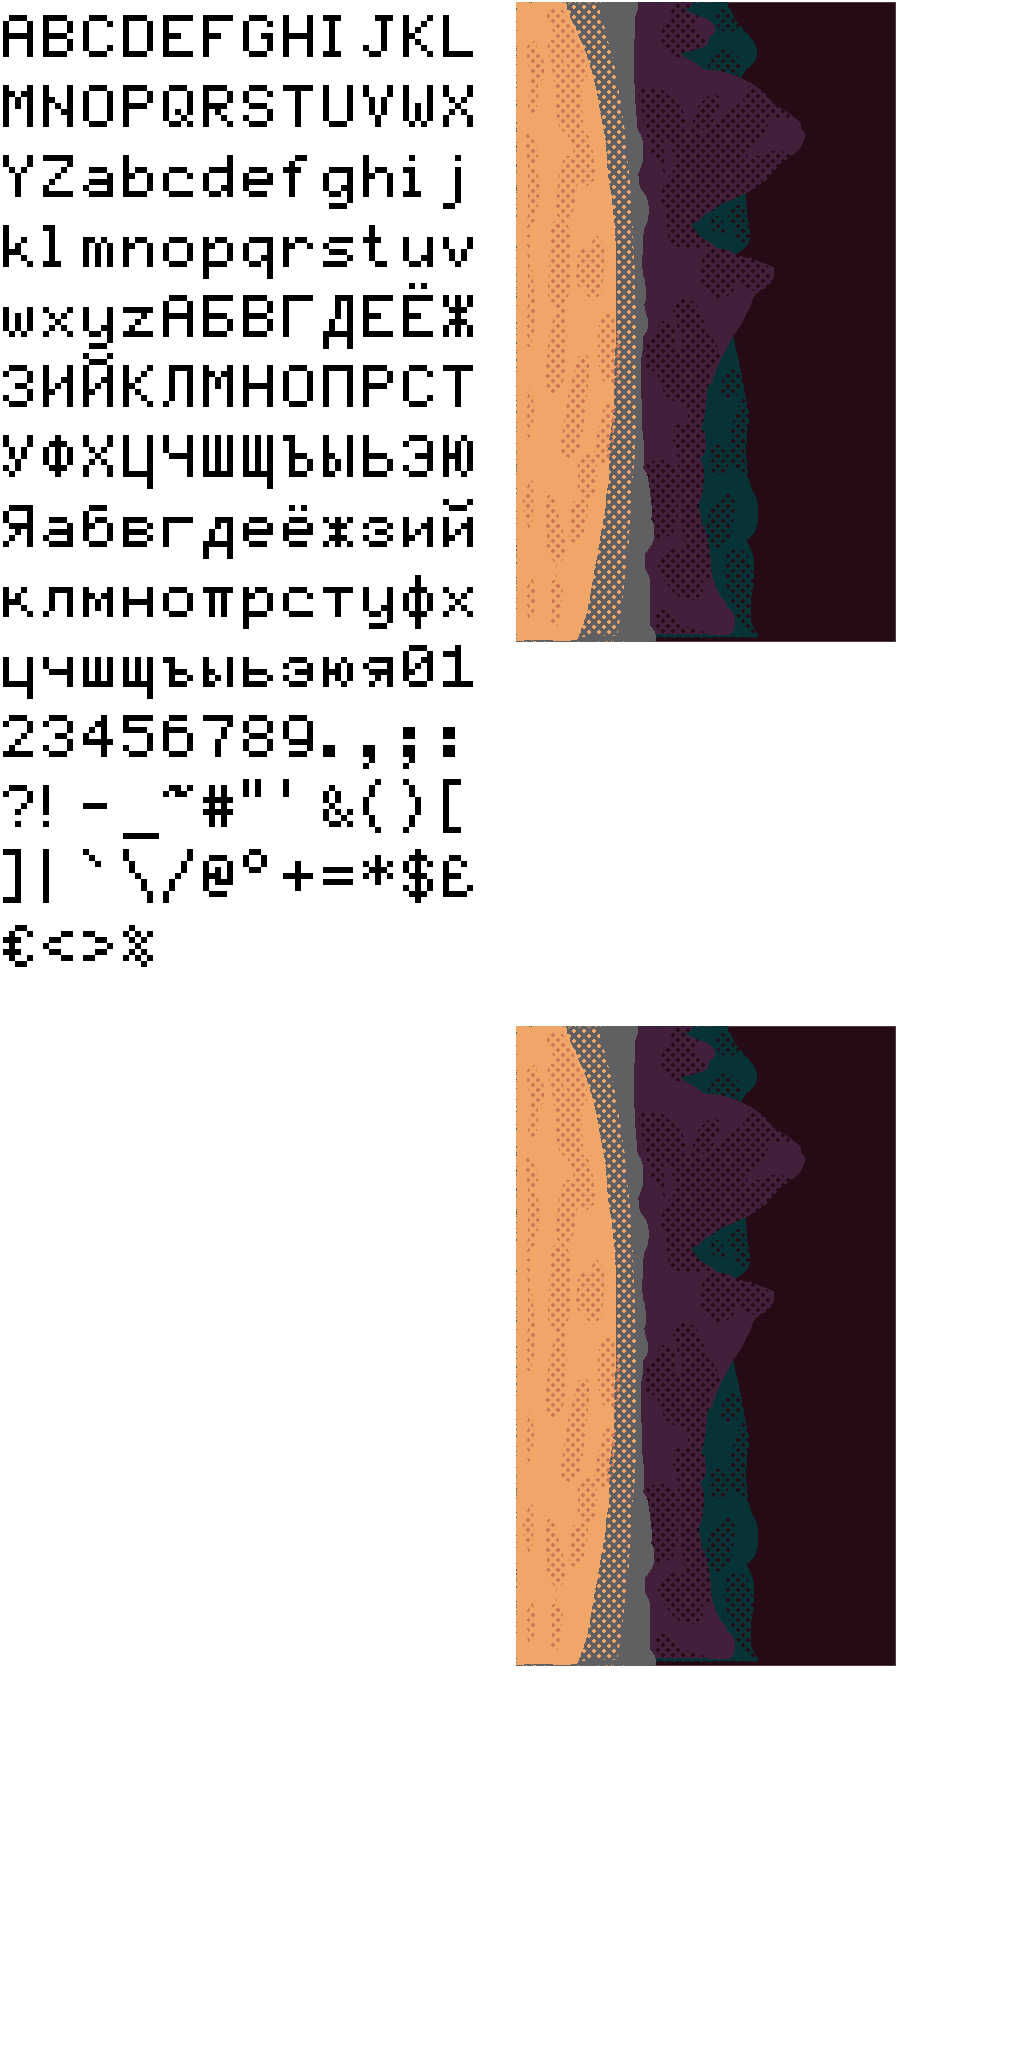
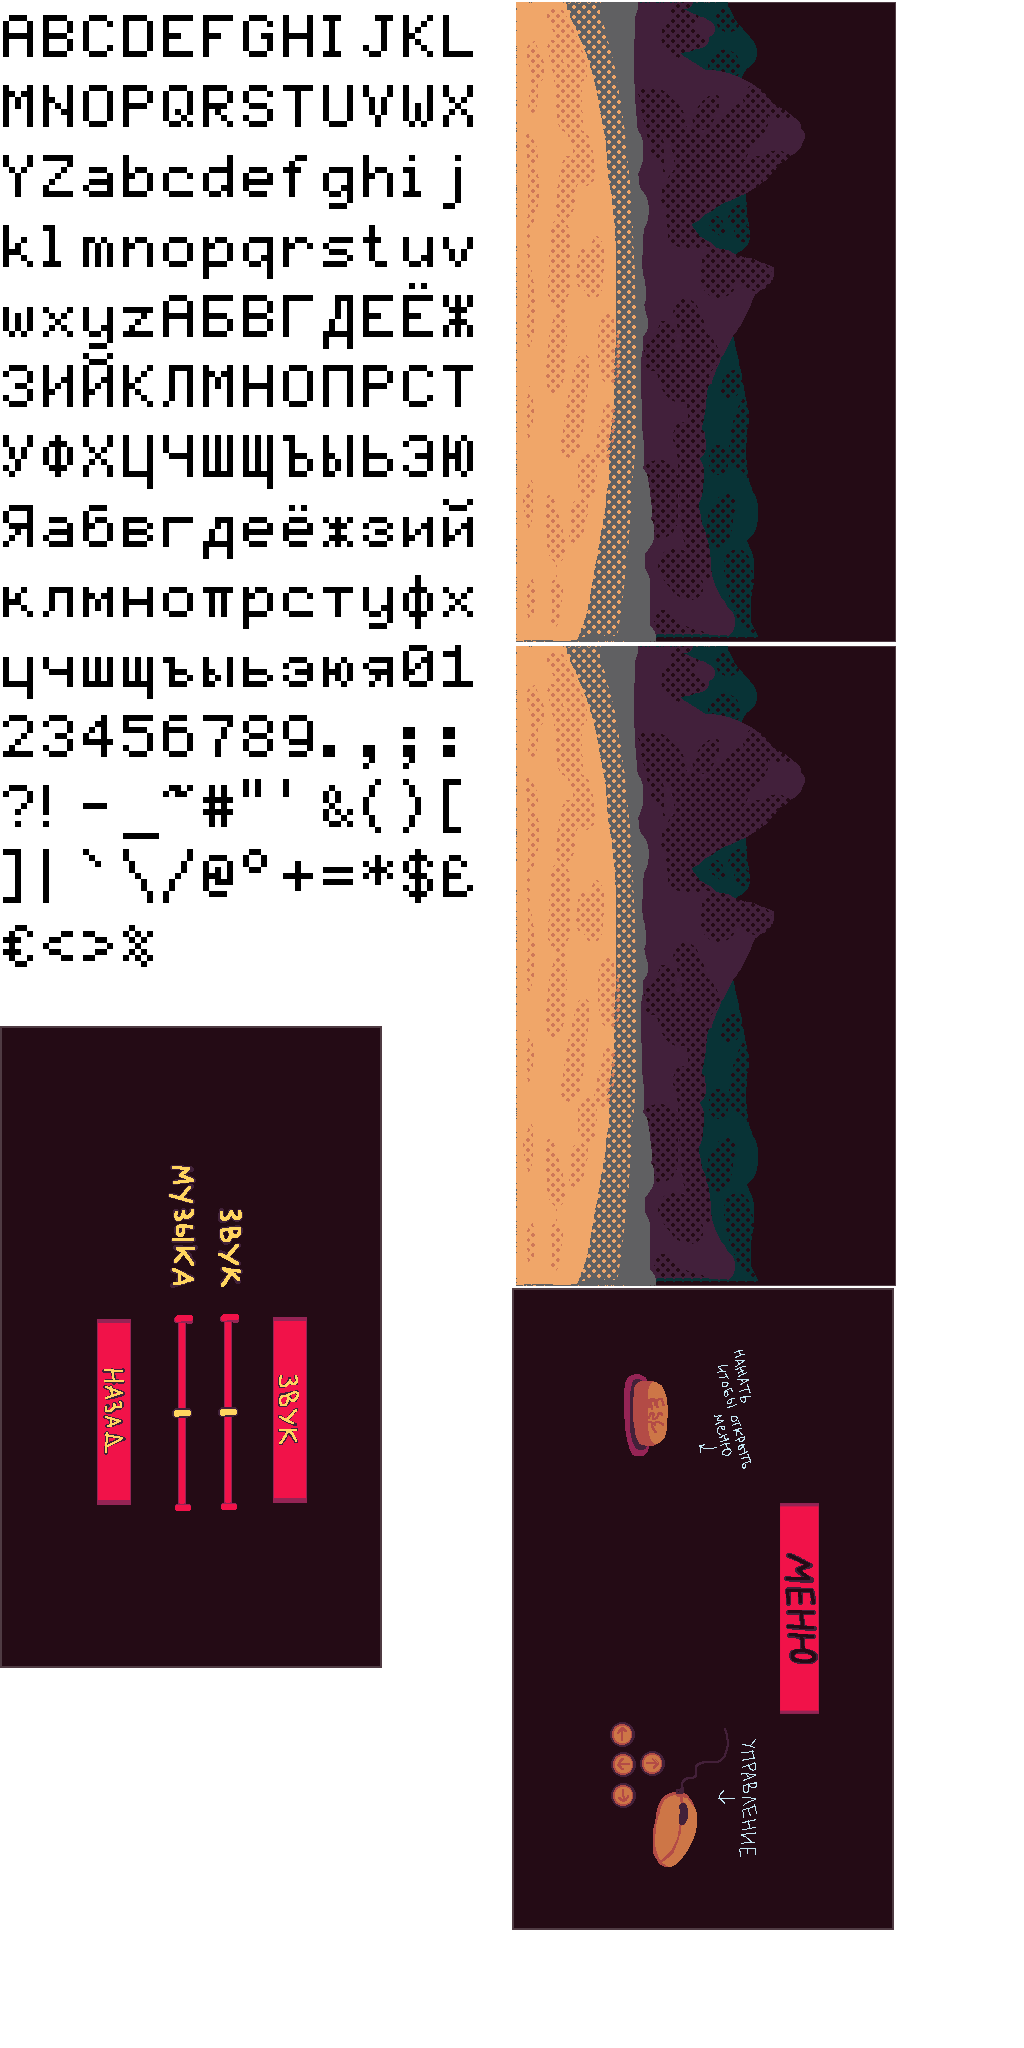
menu add

Changed region(s): [[0.5, 0.3125, 0.875, 0.9688], [0.0, 0.5, 0.375, 0.8125]]

diff --git a/KosmosFLY/scripts/c3runtime.js b/KosmosFLY/scripts/c3runtime.js
@@ -2964,8 +2964,8 @@ this._gpuTimeStartFrame;frameNumber<this._gpuTimeEndFrame;++frameNumber)this._we
 if(this._snapshotPromise)return this._snapshotPromise;this._snapshotPromise=new Promise(resolve=>{this._snapshotResolve=resolve});return this._snapshotPromise}_MaybeTakeSnapshot(){if(!this._snapshotFormat)return;let canvas=this._canvas;const snapArea=this._snapshotArea;const x=C3.clamp(Math.floor(snapArea.getLeft()),0,canvas.width);const y=C3.clamp(Math.floor(snapArea.getTop()),0,canvas.height);let w=snapArea.width();if(w===0)w=canvas.width-x;else w=C3.clamp(Math.floor(w),0,canvas.width-x);let h=
 snapArea.height();if(h===0)h=canvas.height-y;else h=C3.clamp(Math.floor(h),0,canvas.height-y);if((x!==0||y!==0||w!==canvas.width||h!==canvas.height)&&(w>0&&h>0)){canvas=C3.CreateCanvas(w,h);const ctx=canvas.getContext("2d");ctx.drawImage(this._canvas,x,y,w,h,0,0,w,h)}C3.CanvasToBlob(canvas,this._snapshotFormat,this._snapshotQuality).then(blob=>{this._snapshotUrl=URL.createObjectURL(blob);this._snapshotPromise=null;this._snapshotResolve(this._snapshotUrl)});this._snapshotFormat="";this._snapshotQuality=
 1}GetCanvasSnapshotUrl(){return this._snapshotUrl}SetIsPastingToDrawingCanvas(p){if(p)this._isPastingToDrawingCanvas++;else this._isPastingToDrawingCanvas--}IsPastingToDrawingCanvas(){return this._isPastingToDrawingCanvas>0}InitLoadingScreen(loaderStyle){if(!this._webglRenderer)return;if(loaderStyle===2){this._percentText=C3.New(C3.Gfx.RendererText,this.GetRenderer());this._percentText.SetIsAsync(false);this._percentText.SetFontName("Arial");this._percentText.SetFontSize(16);this._percentText.SetHorizontalAlignment("center");
[2 lines of base64/hex data omitted]
+this._percentText.SetVerticalAlignment("center");this._percentText.SetSize(PERCENTTEXT_WIDTH,PERCENTTEXT_HEIGHT)}else if(loaderStyle===0){const loadingLogoAsset=this._runtime.GetLoadingLogoAsset();if(loadingLogoAsset)loadingLogoAsset.LoadStaticTexture(this._webglRenderer).catch(err=>console.warn(`[C3 runtime] Failed to create texture for loading logo: `,err))}else if(loaderStyle===4){this._LoadSvgSplashImage("splash-images/splash-logo.svg").then(tex=>{if(this._splashState==="done")this._webglRenderer.DeleteTexture(tex);
+else this._splashTextures.logo=tex}).catch(err=>console.warn("Failed to load splash image: ",err));this._LoadBitmapSplashImage("splash-images/splash-poweredby-512.png").then(tex=>{if(this._splashState==="done")this._webglRenderer.DeleteTexture(tex);else this._splashTextures.powered=tex}).catch(err=>console.warn("Failed to load splash image: ",err));this._LoadBitmapSplashImage("splash-images/splash-website-512.png").then(tex=>{if(this._splashState==="done")this._webglRenderer.DeleteTexture(tex);else this._splashTextures.website=
 tex}).catch(err=>console.warn("Failed to load splash image: ",err))}}async _LoadSvgSplashImage(url){url=(new URL(url,this._runtime.GetBaseURL())).toString();const blob=await C3.FetchBlob(url);const drawable=await this._runtime.RasterSvgImage(blob,2048,2048);return await this._webglRenderer.CreateStaticTextureAsync(drawable,{mipMapQuality:"high"})}async _LoadBitmapSplashImage(url){url=(new URL(url,this._runtime.GetBaseURL())).toString();const blob=await C3.FetchBlob(url);return await this._webglRenderer.CreateStaticTextureAsync(blob,
 {mipMapQuality:"high"})}HideCordovaSplashScreen(){this._runtime.PostComponentMessageToDOM("runtime","hide-cordova-splash")}StartLoadingScreen(){this._loaderStartTime=Date.now();this._runtime.Dispatcher().addEventListener("loadingprogress",this._loadingprogress_handler);this._rafId=requestAnimationFrame(()=>this._DrawLoadingScreen());const loaderStyle=this._runtime.GetLoaderStyle();if(loaderStyle!==3)this.HideCordovaSplashScreen()}async EndLoadingScreen(){if(!this._webglRenderer)return;this._loadingProgress=
 1;const loaderStyle=this._runtime.GetLoaderStyle();if(loaderStyle===4)await this._splashDonePromise;this._splashDoneResolve=null;this._splashDonePromise=null;if(this._rafId!==-1){cancelAnimationFrame(this._rafId);this._rafId=-1}this._runtime.Dispatcher().removeEventListener("loadingprogress",this._loadingprogress_handler);this._loadingprogress_handler=null;if(this._percentText){this._percentText.Release();this._percentText=null}this._runtime.ReleaseLoadingLogoAsset();this._webglRenderer.Start();if(this._splashTextures.logo){this._webglRenderer.DeleteTexture(this._splashTextures.logo);
@@ -3145,6 +3145,19 @@ self["C3_Shaders"]["outline"] = {
 	preservesOpaqueness: true,
 	animated: false,
 	parameters: [["width",0,"float"],["cl",0,"color"],["diag",0,"float"]]
+};
+self["C3_Shaders"]["hsladjust"] = {
+	glsl: "varying mediump vec2 vTex;\nuniform lowp sampler2D samplerFront;\nprecision mediump float;\nuniform float huerotate;\nuniform float satadjust;\nuniform float lumadjust;\nvec3 rgb_to_hsl(vec3 color)\n{\nvec3 hsl = vec3(0.0, 0.0, 0.0);\nfloat fmin = min(min(color.r, color.g), color.b);\nfloat fmax = max(max(color.r, color.g), color.b);\nfloat delta = fmax - fmin;\nhsl.z = (fmax + fmin) / 2.0;\nif (delta == 0.0)\n{\nhsl.x = 0.0;\nhsl.y = 0.0;\n}\nelse\n{\nif (hsl.z < 0.5)\nhsl.y = delta / (fmax + fmin);\nelse\nhsl.y = delta / (2.0 - fmax - fmin);\nfloat dR = (((fmax - color.r) / 6.0) + (delta / 2.0)) / delta;\nfloat dG = (((fmax - color.g) / 6.0) + (delta / 2.0)) / delta;\nfloat dB = (((fmax - color.b) / 6.0) + (delta / 2.0)) / delta;\nif (color.r == fmax)\nhsl.x = dB - dG;\nelse if (color.g == fmax)\nhsl.x = (1.0 / 3.0) + dR - dB;\nelse if (color.b == fmax)\nhsl.x = (2.0 / 3.0) + dG - dR;\nif (hsl.x < 0.0)\nhsl.x += 1.0;\nelse if (hsl.x > 1.0)\nhsl.x -= 1.0;\n}\nreturn hsl;\n}\nfloat hue_to_rgb(float f1, float f2, float hue)\n{\nif (hue < 0.0)\nhue += 1.0;\nelse if (hue > 1.0)\nhue -= 1.0;\nfloat ret;\nif ((6.0 * hue) < 1.0)\nret = f1 + (f2 - f1) * 6.0 * hue;\nelse if ((2.0 * hue) < 1.0)\nret = f2;\nelse if ((3.0 * hue) < 2.0)\nret = f1 + (f2 - f1) * ((2.0 / 3.0) - hue) * 6.0;\nelse\nret = f1;\nreturn ret;\n}\nvec3 hsl_to_rgb(vec3 hsl)\n{\nvec3 rgb = vec3(hsl.z);\nif (hsl.y != 0.0)\n{\nfloat f2;\nif (hsl.z < 0.5)\nf2 = hsl.z * (1.0 + hsl.y);\nelse\nf2 = (hsl.z + hsl.y) - (hsl.y * hsl.z);\nfloat f1 = 2.0 * hsl.z - f2;\nrgb.r = hue_to_rgb(f1, f2, hsl.x + (1.0 / 3.0));\nrgb.g = hue_to_rgb(f1, f2, hsl.x);\nrgb.b = hue_to_rgb(f1, f2, hsl.x - (1.0 / 3.0));\n}\nreturn rgb;\n}\nvoid main(void)\n{\nvec4 front = texture2D(samplerFront, vTex);\nvec3 rgb = rgb_to_hsl(front.rgb) + vec3((huerotate > 0.5 ? huerotate - 1.0 : huerotate), 0, (lumadjust - 1.0) * front.a);\nrgb.y *= satadjust;\nrgb = hsl_to_rgb(rgb);\ngl_FragColor = vec4(rgb, front.a);\n}",
+	wgsl: "%%SAMPLERFRONT_BINDING%% var samplerFront : sampler;\n%%TEXTUREFRONT_BINDING%% var textureFront : texture_2d<f32>;\n[[block]] struct ShaderParams {\nhuerotate : f32;\nsatadjust : f32;\nlumadjust : f32;\n};\n%%SHADERPARAMS_BINDING%% var<uniform> shaderParams : ShaderParams;\n%%C3_UTILITY_FUNCTIONS%%\n%%FRAGMENTINPUT_STRUCT%%\n%%FRAGMENTOUTPUT_STRUCT%%\n[[stage(fragment)]]\nfn main(input : FragmentInput) -> FragmentOutput\n{\nvar front : vec4<f32> = textureSample(textureFront, samplerFront, input.fragUV);\nvar huerotate : f32 = shaderParams.huerotate;\nif (huerotate > 0.5)\n{\nhuerotate = huerotate - 1.0;\n}\nvar rgb : vec3<f32> = c3_RGBtoHSL(front.rgb) + vec3<f32>(huerotate, 0.0, (shaderParams.lumadjust - 1.0) * front.a);\nrgb.y = rgb.y * shaderParams.satadjust;\nrgb = c3_HSLtoRGB(rgb);\nvar output : FragmentOutput;\noutput.color = vec4<f32>(rgb, front.a);\nreturn output;\n}",
+	blendsBackground: false,
+	usesDepth: false,
+	extendBoxHorizontal: 0,
+	extendBoxVertical: 0,
+	crossSampling: false,
+	mustPreDraw: false,
+	preservesOpaqueness: true,
+	animated: false,
+	parameters: [["huerotate",0,"percent"],["satadjust",0,"percent"],["lumadjust",0,"percent"]]
 };
 
 }
@@ -4023,7 +4036,9 @@ self.C3_GetObjectRefTable = function () {
 		C3.Behaviors.Tween.Exps.Value,
 		C3.Behaviors.Sin.Acts.SetMagnitude,
 		C3.Plugins.Particles.Acts.SetSprayCone,
-		C3.Plugins.Particles.Acts.SetInitSpeed
+		C3.Plugins.Particles.Acts.SetInitSpeed,
+		C3.Plugins.Touch.Cnds.OnTouchObject,
+		C3.Plugins.System.Acts.GoToLayout
 	];
 };
 self.C3_JsPropNameTable = [
@@ -4066,8 +4081,15 @@ self.C3_JsPropNameTable = [
 	{Fade: 0},
 	{SpriteFont: 0},
 	{Particles: 0},
+	{menu: 0},
+	{звук: 0},
+	{about: 0},
+	{end: 0},
+	{Sound: 0},
+	{Start: 0},
 	{Family1: 0},
 	{Dvig: 0},
+	{Family2: 0},
 	{Variable1: 0}
 ];
 }
@@ -4251,7 +4273,9 @@ self.C3_ExpressionFuncs = [
 		p => {
 			const n0 = p._GetNode(0);
 			return () => n0.ExpBehavior("3");
-		}
+		},
+		() => 0.86,
+		() => 0.1
 ];
 
 
